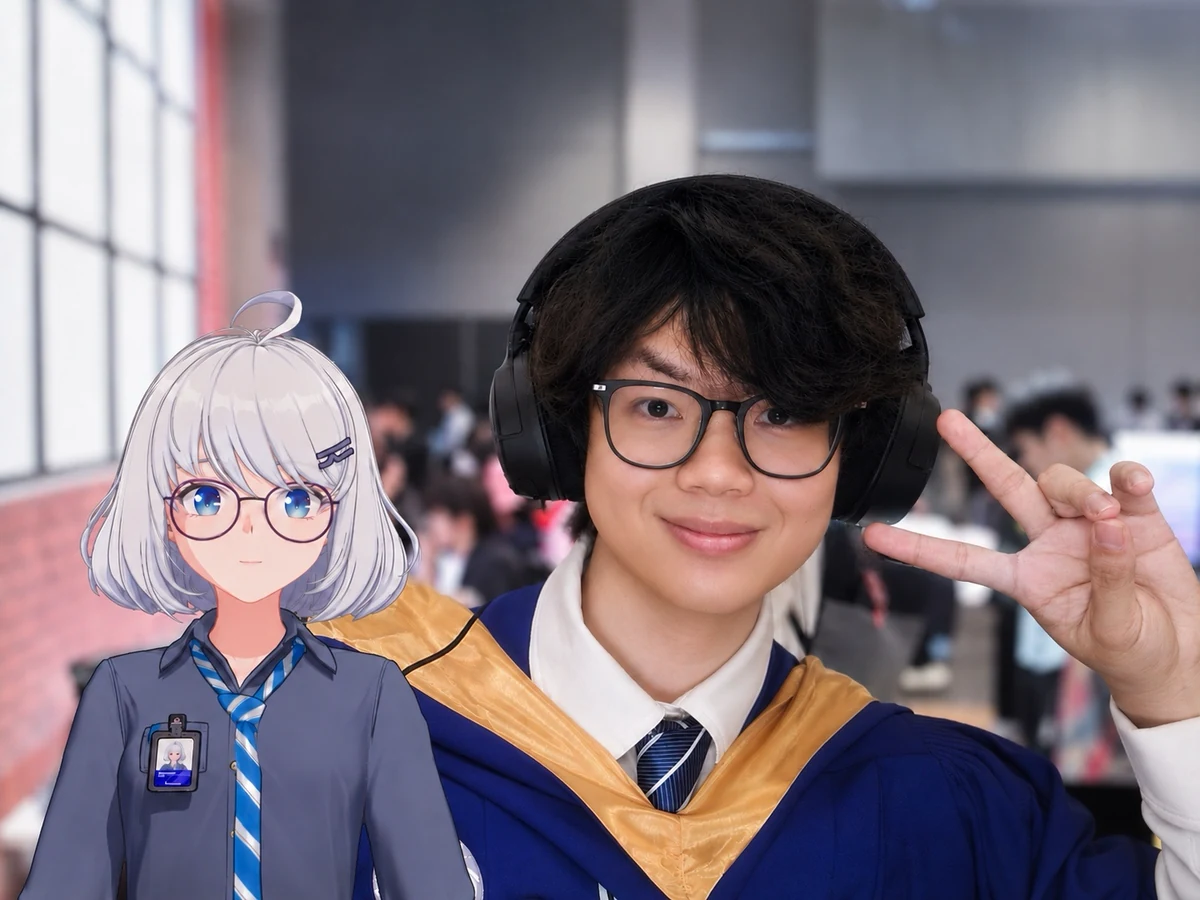
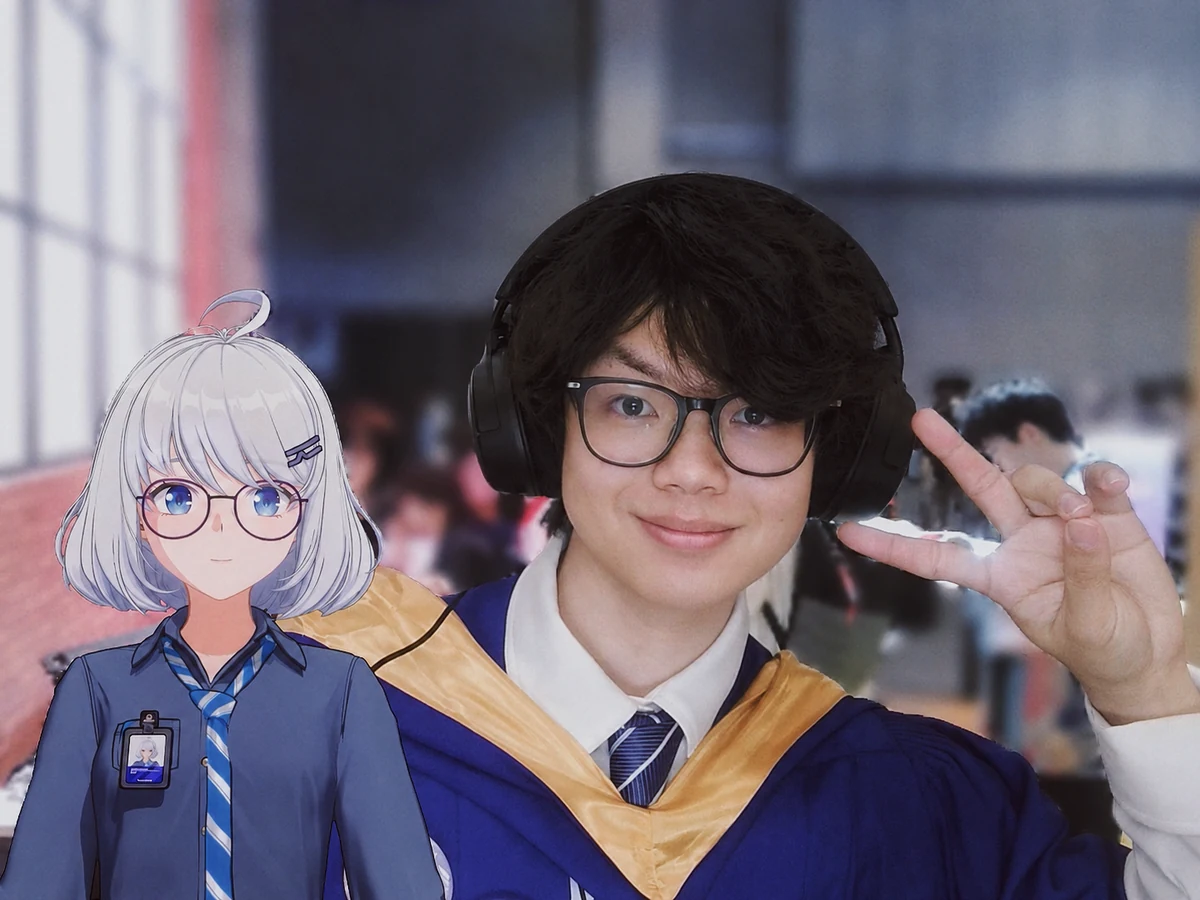
Refresh profile photo and experience keywords

diff --git a/index.html b/index.html
@@ -55,8 +55,8 @@
             </p>
             <p>
               My research interests include embodied foundation models, world models, and loco-manipulation.
-              Before joining NR, I worked with Seed Robotics at ByteDance on digital asset reconstruction and
-              dexterous manipulation. I welcome academic collaborations.
+              Before joining Noitom Robotics, I worked with Seed Robotics at ByteDance on digital asset
+              reconstruction and dexterous manipulation. I welcome academic collaborations.
             </p>
 
             <div class="profile-links">
@@ -137,15 +137,15 @@
                     decoding="async"
                   >
                   <div>
-                    <h3>Noitom Robotics · NR AI</h3>
+                    <h3>Noitom Robotics</h3>
                     <p class="timeline-org">Algorithm Researcher</p>
                   </div>
                 </div>
                 <ul class="experience-keywords">
-                  <li>Embodied Motion Data</li>
-                  <li>Task Generation</li>
+                  <li>Motion Scaling</li>
+                  <li>Loco-Manipulation</li>
                   <li>Human–Object Interaction</li>
-                  <li>3D Reconstruction</li>
+                  <li>Robot Learning</li>
                 </ul>
               </div>
             </article>
@@ -169,9 +169,9 @@
                 </div>
                 <ul class="experience-keywords">
                   <li>Real2Sim2Real</li>
-                  <li>Digital Asset Reconstruction</li>
-                  <li>Articulated Objects</li>
-                  <li>Robot Manipulation</li>
+                  <li>Articulated Asset Reconstruction</li>
+                  <li>Dexterous Manipulation</li>
+                  <li>Teleoperation</li>
                 </ul>
               </div>
             </article>

diff --git a/DESIGN.md b/DESIGN.md
@@ -94,6 +94,5 @@
 
 ## Open questions
 
-- [ ] Confirm the exact Noitom full-time start month and whether `NR AI` should be public / Jiahao / medium content impact.
 - [ ] Decide when to publish the two CV-listed papers / Jiahao / high academic impact.
 - [ ] Add downloadable CV, LinkedIn, and ORCID URLs if available / Jiahao / medium contact impact.
